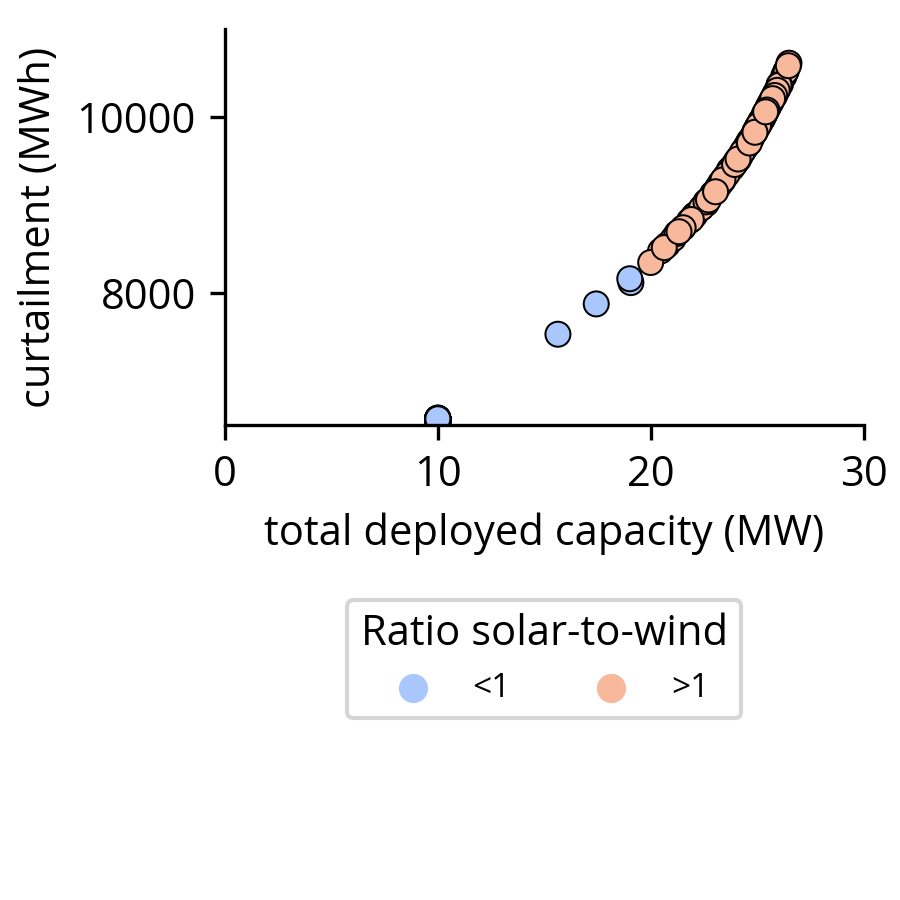
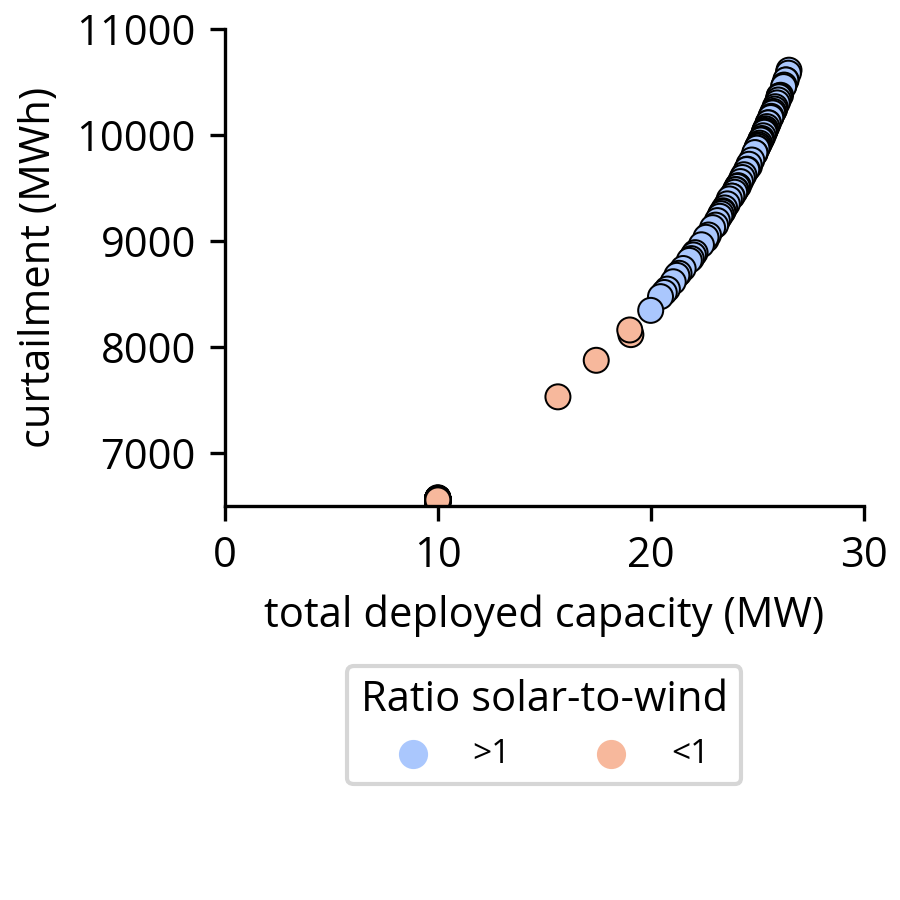
fixed white margin around the curtailment plots no sub

diff --git a/thesis scripts/experiments/cablepool/analysis/report_cablepool_postprocess_no_subsidy.py b/thesis scripts/experiments/cablepool/analysis/report_cablepool_postprocess_no_subsidy.py
@@ -54,7 +54,7 @@ default_matplotlib_save(fig, "report_cablepool_no_sub_pv_deployment_vs_cost.png"
 #%% relative curtailment
 fig, ax = plt.subplots()
 fig, ax = default_matplotlib_style(fig, ax)
-fig.set_size_inches(3, 3.5)
+fig.set_size_inches(3, 3)
 
 sns.scatterplot(
     x="total_installed_capacity",
@@ -74,7 +74,7 @@ ax.set_ylabel("relative curtailment (%)")
 ax.set_ylim([20, 23])
 
 ax.legend(
-    bbox_to_anchor=(0.5, -0.4),
+    bbox_to_anchor=(0.5, -0.3),
     loc=9,
     frameon=True,
     title="Ratio solar-to-wind",
@@ -107,7 +107,7 @@ ax.set_ylabel("curtailment (MWh)")
 ax.set_ylim([6500, 11000])
 
 ax.legend(
-    bbox_to_anchor=(0.5, -0.4),
+    bbox_to_anchor=(0.5, -0.3),
     loc=9,
     frameon=True,
     title="Ratio solar-to-wind",
@@ -117,6 +117,9 @@ ax.legend(
 default_matplotlib_save(
     fig, "report_cablepool_no_sub_abs_curtailment_vs_deployment.png"
 )
+
+# plt.tight_layout(pad=0.3)
+# plt.savefig("report_cablepool_no_sub_abs_curtailment_vs_deployment_alt.png", dpi=300, bbox_inches='tight', pad_inches=0)
 
 # %% whole lotta stuff to get the original cable pooling results
 from pathlib import Path
